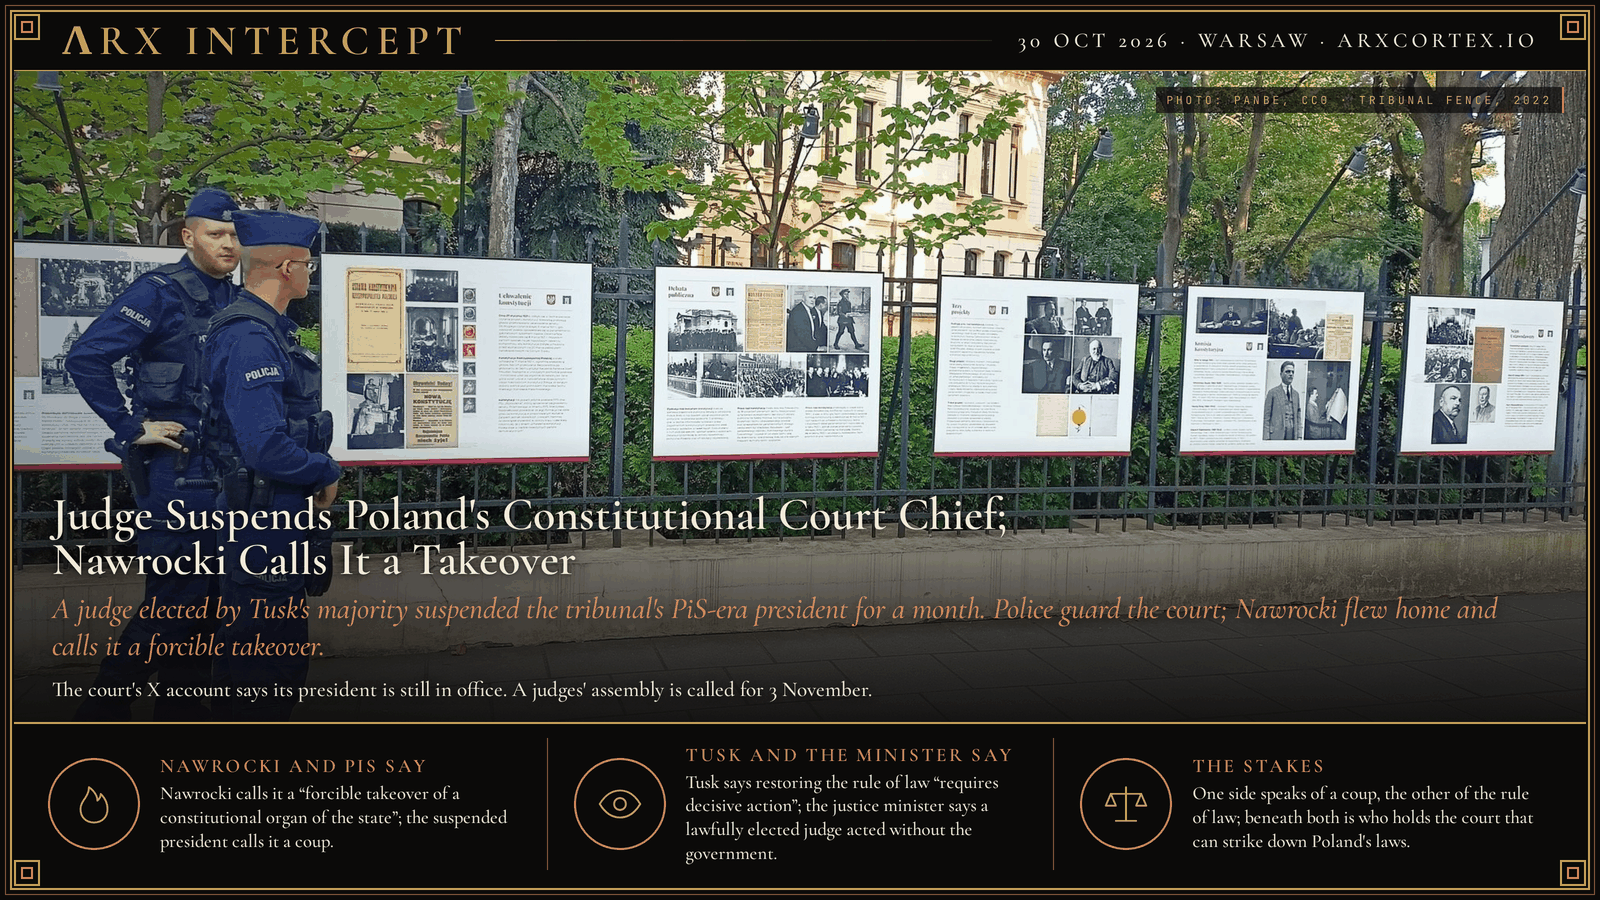
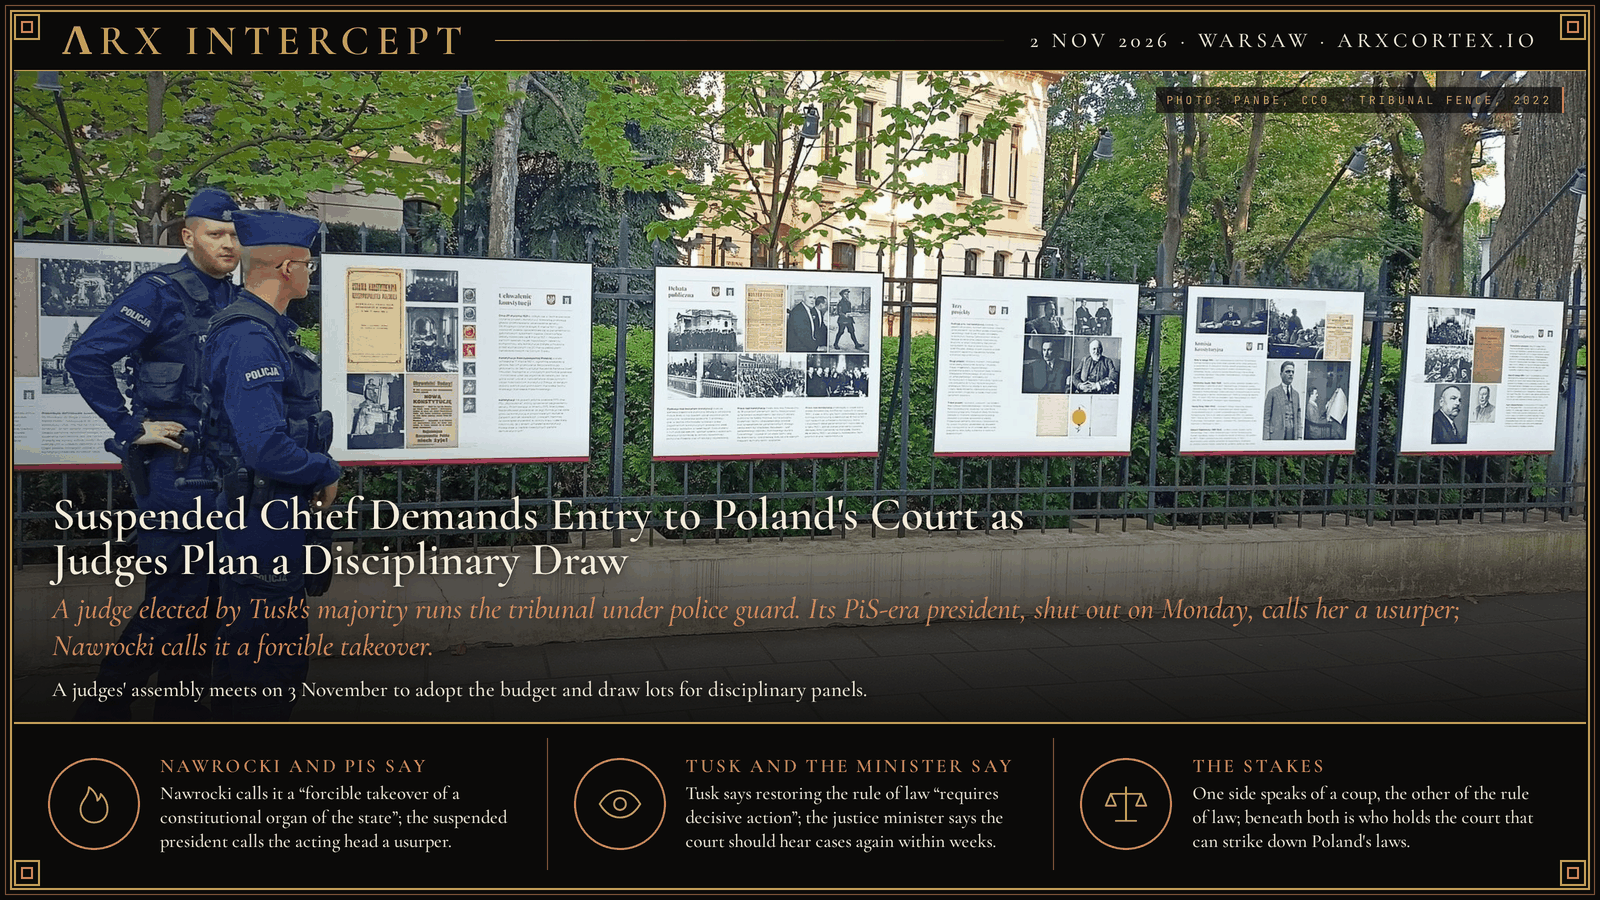
Dispatch: Suspended Chief Demands Entry to Poland's Court as Judges Plan a Disciplinary Draw

diff --git a/dispatches/2026-10-30-judge-suspends-polands-constitutional-court-chief/index.md b/dispatches/2026-10-30-judge-suspends-polands-constitutional-court-chief/index.md
@@ -4,9 +4,9 @@ desk: ΛRX Intercept
 author: Arx
 category: Politics
 story_type: contested
-title: "Judge Suspends Poland's Constitutional Court Chief; Nawrocki Calls It a Takeover"
-dek: "A judge elected by Tusk's majority suspended the tribunal's PiS-era president for a month. Police guard the court; Nawrocki flew home and calls it a forcible takeover."
-date: 2026-10-30
+title: "Suspended Chief Demands Entry to Poland's Court as Judges Plan a Disciplinary Draw"
+dek: "A judge elected by Tusk's majority runs the tribunal under police guard. Its PiS-era president, shut out on Monday, calls her a usurper; Nawrocki calls it a forcible takeover."
+date: 2026-11-02
 location: Warsaw, Poland
 coords: [52.2223, 21.0213]
 severity: 3
@@ -14,9 +14,9 @@ card: card.png
 art: art.jpg
 pair:
   left_label: "Nawrocki and PiS Say"
-  left: "Nawrocki calls it a \"forcible takeover of a constitutional organ of the state\"; Święczkowski calls it a coup and says the new judges are usurpers."
+  left: "Nawrocki calls it a \"forcible takeover of a constitutional organ of the state\"; Święczkowski calls Korwin-Piotrowska a usurper and her orders not binding."
   right_label: "Tusk and Żurek Say"
-  right: "Tusk says restoring the rule of law \"requires decisive action\"; Żurek says a lawfully elected judge acted without the government."
+  right: "Tusk says restoring the rule of law \"requires decisive action\" and Nawrocki need only recognise the judges the Sejm elected; Żurek says the court should hear cases again within weeks."
 reading:
   label: The Stakes
   text: "One side speaks of a coup, the other of the rule of law; beneath both is who holds the court that can strike down Poland's laws."
@@ -66,6 +66,34 @@ sources:
     outlet: Fakt
     url: https://www.fakt.pl/polityka/karol-nawrocki-reaguje-na-chaos-wokol-tk-wladyslaw-kosiniak-kamysz-u-prezydenta/2npc7jn
     role: origin
+  - title: "Tusk defends suspension of Poland's Constitutional Tribunal president as protesters gather again"
+    outlet: AP
+    url: https://apnews.com/article/poland-european-union-protests-police-tribunal-0a346b1633cef7360277500a1273773f
+    role: origin
+  - title: "Police deployed during stand-off over control of top Poland court"
+    outlet: BBC News
+    url: https://www.bbc.com/news/articles/crz9824d5e88o
+    role: origin
+  - title: "Polish president cuts short trip to Senegal amid court 'coup d'état' claims"
+    outlet: Euronews
+    url: https://www.euronews.com/2026/10/30/polish-president-turns-back-mid-flight-amid-coup-detat-allegations
+    role: origin
+  - title: "Kryzys w Trybunale Konstytucyjnym. Tusk wskazuje rozwiązanie, jutro kluczowe zgromadzenie sędziów"
+    outlet: Euronews (Polish)
+    url: https://pl.euronews.com/2026/11/02/kryzys-w-trybunale-konstytucyjnym-tusk-wskazuje-rozwiazanie-jutro-kluczowe-zgromadzenie-se
+    role: origin
+  - title: "Święczkowski znowu próbował wejść do Trybunału Konstytucyjnego. Bez powodzenia"
+    outlet: RMF24
+    url: https://www.rmf24.pl/fakty/polityka/news-swieczkowski-znowu-probowal-wejsc-do-trybunalu-konstytucyjne,nIdn,1024426
+    role: origin
+  - title: "Co dalej z TK? Korwin-Piotrowska w wywiadzie dla WP o jednym z możliwych rozwiązań"
+    outlet: Wirtualna Polska
+    url: https://wiadomosci.wp.pl/co-dalej-z-tk-korwin-piotrowska-w-wywiadze-dla-wp-o-jednym-z-mozliwych-rozwiazan-7346685445007808a
+    role: origin
+  - title: "Poland's constitutional court row deepens as judge seeks to discipline its chief"
+    outlet: Polskie Radio
+    url: https://www.polskieradio.pl/395/7784/artykul/3748307,poland%E2%80%99s-constitutional-court-row-deepens-as-judge-seeks-to-discipline-its-chief
+    role: origin
   - title: "Xero Flor w Polsce sp. z o.o. v. Poland, no. 4907/18, judgment of 7 May 2021"
     outlet: European Court of Human Rights
     url: https://hudoc.echr.coe.int/eng?i=001-210065
@@ -80,27 +108,27 @@ sources:
     role: image
 ---
 
-**ΛRX INTERCEPT** · Dispatch · 30 Oct 2026 · Warsaw
+**ΛRX INTERCEPT** · Dispatch · 2 Nov 2026 · Warsaw
 
-# Judge Suspends Poland's Constitutional Court Chief; Nawrocki Calls It a Takeover
+# Suspended Chief Demands Entry to Poland's Court as Judges Plan a Disciplinary Draw
 
-*A judge elected by Tusk's majority suspended the tribunal's PiS-era president for a month. Police guard the court; Nawrocki flew home and calls it a forcible takeover.*
+*A judge elected by Tusk's majority runs the tribunal under police guard. Its PiS-era president, shut out on Monday, calls her a usurper; Nawrocki calls it a forcible takeover.*
 
-On Friday evening, Judge Anna Korwin-Piotrowska suspended Constitutional Tribunal president Bogdan Święczkowski and his deputy for a month and took charge of the court. President Karol Nawrocki turned his plane back from Senegal and says the court was taken by force; Prime Minister Donald Tusk says the rule of law is being restored.
+Poland's suspended court chief stood outside the tribunal on Monday, demanding entry. A judge elected by Tusk's majority now runs it under police guard, and Nawrocki calls it a forcible takeover. At stake is a court that can strike down laws, a year before the election.
 
 ![ΛRX Intercept dispatch card (photo: PanBe, CC0): police officers outside the fence of the Constitutional Tribunal in Warsaw, September 2022](card.png)
 
-At about 6 p.m. on Friday, 30 October, the tribunal's website announced that Korwin-Piotrowska, as the judge with the longest judicial service, now heads the court, and that she had ordered a one-month break in duties for Święczkowski and Vice-President Bartłomiej Sochański, Rzeczpospolita reports. Her order, quoted by Prawo.pl, counts her service from the start of her judicial training on 1 September 1995. It gives as grounds that Święczkowski barred five judges elected by the current Sejm, including her, from hearing cases, and that by keeping them out he left the court unable to adopt its 2027 budget. Korwin-Piotrowska told TVP Info a disciplinary court must now rule on the suspensions. The same day, Justice Minister and Prosecutor General Waldemar Żurek filed five requests to lift the immunity of the two judges, four against Święczkowski and one against Sochański, with 50 volumes of case files.
+Bogdan Święczkowski arrived at the Constitutional Tribunal at about 1 p.m. on Monday, 2 November, and was not let in, RMF FM reports. "Nobody has removed me from the office of president of the Constitutional Tribunal, and no action by the usurper Anna Korwin-Piotrowska can change that," he told supporters outside. He said he would work in front of the building if he could not work inside, and there he signed a letter to the national police chief demanding that officers leave. The letter says police are on the court's grounds illegally, without the consent of the building's administrator. That morning, seven of the judges elected by the current Sejm came to work at the court; an eighth is on sick leave, RMF FM reports.
 
-The tribunal's X account says he remains president and that Korwin-Piotrowska cannot lead the court because Nawrocki never swore her in, AFP reports. Święczkowski calls the move a coup d'état, Politico reports. Police say they deployed after warnings of threats to judges and staff and did not enter the building; three people were detained after climbing the court's fence. Law and Justice (PiS) leader Jarosław Kaczyński joined several hundred protesters outside and says Poland risks becoming a "police state."
+The standoff began on Friday evening, 30 October. The tribunal's website announced that Korwin-Piotrowska, as the judge with the longest judicial service, now heads the court, and that she had ordered a one-month break in duties for Święczkowski and Vice-President Bartłomiej Sochański, Rzeczpospolita reports. Her order, quoted by Prawo.pl, gives as grounds that Święczkowski barred judges elected by the current Sejm, including her, from hearing cases, and that by keeping them out he left the court unable to adopt its 2027 budget. The same day, Justice Minister and Prosecutor General Waldemar Żurek asked for the immunity of both men to be lifted so they can be charged, BBC News reports. The tribunal's X account answered that Korwin-Piotrowska is not a judge of the court: "All persons participating in these actions are committing the crime of a coup d'état," the post said, Euronews reports. Riot police deployed at the court; police say they detained three people after protesters threw objects at officers and tried to break through the security fence, AP reports. Law and Justice (PiS) leader Jarosław Kaczyński joined the protesters outside and says Poland risks becoming a "police state."
 
-Nawrocki, flying to Senegal for the opening of the Youth Olympic Games, ordered his plane back to Warsaw, AFP reports. He met the First President of the Supreme Court, Zbigniew Kapiński, and went with him to the tribunal shortly before 1 a.m. Video posted by Judge Maciej Berek shows the president pushing through a group of judges at the door; Berek says he ran into Korwin-Piotrowska, Onet reports. Żurek says the footage shows the president "forcing his way in and attacking the judges." Before 5 a.m., Nawrocki's chief of staff, Paweł Szefernaker, read a statement outside the court describing a "forcible takeover of a constitutional organ of the state." It demanded that the police sent by the government leave, and it called emergency talks with parliamentary parties, citing a threat to internal security.
+President Karol Nawrocki, flying to Senegal for the opening of the Youth Olympic Games, ordered his plane back to Warsaw. "At a moment like this, the President must be in Poland," he wrote on X. He met the First President of the Supreme Court, Zbigniew Kapiński, and went with him to the tribunal shortly before 1 a.m. Video posted on X shows scuffles at the door between Nawrocki's group and a group of judges that included Korwin-Piotrowska, Euronews reports; Nawrocki says he helped Święczkowski get into the building, AP reports. Żurek says the footage shows the president "forcing his way in and attacking the judges." Before 5 a.m., Nawrocki's chief of staff, Paweł Szefernaker, read the president's statement outside the court: "Tonight, there has been a breach of the constitutional order of the Republic of Poland and a forcible takeover of a constitutional organ of the state." It demanded that the police sent by the government leave, and it called emergency talks with parliamentary parties, citing a threat to internal security.
 
-Leaders of PSL, Poland 2050, PiS, Razem and Confederation met Nawrocki on Saturday; Tusk's Civic Coalition and the Left stayed away, Fakt reports. Confederation's Sławomir Mentzen says the terms of all 15 judges should be ended and a new bench appointed. Razem's Adrian Zandberg says he told Nawrocki he had stopped acting as an arbiter and become a party to the dispute. In a televised address on Saturday, Tusk said he was "certain that the Constitutional Tribunal will function as it should," and that his duty was to keep it safe, Reuters reports. US ambassador Tom Rose urged all sides to avoid any step that could provoke violence.
+Leaders of PSL, Poland 2050, PiS, Razem and Confederation met Nawrocki on Saturday; Tusk's Civic Coalition and the Left stayed away, Fakt reports. Tusk said his government would press ahead with restoring the tribunal's independence, AP reports, as protesters gathered outside the court for a second night. On Monday he wrote that the dispute needs no change to the constitution: Nawrocki should recognise the judges the Sejm elected and let them take up their duties, Euronews reports. He accused Nawrocki of choosing a confrontation by force. Żurek says the tribunal should be hearing cases again within weeks. The president's office says Nawrocki's personal inviolability was breached at the door and that it will notify prosecutors, Wirtualna Polska reports; Korwin-Piotrowska says that distracts from what she calls the president's attempt to steer the judiciary.
 
-The fight dates to 2015. The outgoing Sejm elected judges in October that year; President Andrzej Duda refused to swear in three of them, and the new PiS majority elected three others to the same seats in December. In Xero Flor v. Poland (7 May 2021), the European Court of Human Rights held that a bench including one of those December judges was not a "tribunal established by law." On 18 December 2025, the EU Court of Justice ruled that the tribunal does not meet the EU standard of an independent tribunal established by law, citing those three appointments and the December 2016 appointment of its president. The tribunal under PiS-era judges ruled in 2021 that parts of the EU treaties conflict with Poland's constitution. Since Tusk took office in December 2023, Nawrocki, elected in 2025, has refused to swear in judges elected by the new majority, and Święczkowski, a former PiS-era deputy justice minister, has kept them from the bench. In September the Sejm elected Berek, a Tusk ally, to the court; Reuters reports critics said that undercut the government's stated aim of restoring checks and balances.
+The fight dates to 2015. The outgoing Sejm elected judges in October that year; President Andrzej Duda refused to swear in three of them, and the new PiS majority elected three others to the same seats in December. In Xero Flor v. Poland (7 May 2021), the European Court of Human Rights held that a bench including one of those December judges was not a "tribunal established by law." On 18 December 2025, the EU Court of Justice ruled that the tribunal does not meet the EU standard of an independent tribunal established by law, citing those three appointments and the December 2016 appointment of its president. The tribunal under PiS-era judges ruled in 2021 that parts of the EU treaties conflict with Poland's constitution. Tusk's government has cited the European rulings in refusing to publish the tribunal's judgments, BBC News reports. Nawrocki, elected in 2025, has refused to swear in judges elected by the new majority, and Święczkowski, a former PiS-era deputy justice minister, has kept them from the bench. In September the Sejm elected Maciej Berek, a former minister in Tusk's cabinet, to the court. Marcin Matczak, a law professor and critic of the PiS-era changes, says the suspension has no legal basis and "buries this body and the issue of the rule of law for two decades," BBC News reports.
 
-Korwin-Piotrowska has called a general assembly of the tribunal's judges for Tuesday, 3 November, to adopt the 2027 budget; it could also take up the immunity requests. The assembly needs two-thirds of the 15 judges present, Prawo.pl notes, so it cannot meet without some of the judges who back Święczkowski. He says he and seven other judges he calls lawful will not attend, and on Saturday he signed an order declaring 3–6 November days off for tribunal staff, Rzeczpospolita reports.
+Korwin-Piotrowska has called a general assembly of the tribunal's judges for 3:30 p.m. on Tuesday, 3 November, to adopt the 2027 budget. On Sunday she told TVN24 she would add a draw by lot to pick the judges who will hear disciplinary cases over her orders against Święczkowski and Sochański: three at first instance and five on appeal, Polskie Radio reports. The immunity requests will not be on Tuesday's agenda, she told Wirtualna Polska. The assembly needs two-thirds of the 15 judges, which is 10, Euronews reports. Asked whether Święczkowski, Sochański and Jarosław Wyrembak could be left out of the count, so that 8 of 12 would suffice, she called that "one of the possible solutions" and said the assembly will decide. Święczkowski says he and seven other judges he calls lawful will not attend, and he has signed an order declaring 3–6 November days off for tribunal staff, Rzeczpospolita reports.
 
 Nawrocki and PiS speak of a coup, Tusk and Żurek of the rule of law; beneath both is who holds the court that can strike down Poland's laws, a year before the next parliamentary election.
 
@@ -109,6 +137,13 @@ Nawrocki and PiS speak of a coup, Tusk and Żurek of the rule of law; beneath bo
 ## Sources
 
 **Original reporting**
+- [Tusk defends suspension of Poland's Constitutional Tribunal president as protesters gather again](https://apnews.com/article/poland-european-union-protests-police-tribunal-0a346b1633cef7360277500a1273773f) — AP
+- [Police deployed during stand-off over control of top Poland court](https://www.bbc.com/news/articles/crz9824d5e88o) — BBC News
+- [Święczkowski znowu próbował wejść do Trybunału Konstytucyjnego. Bez powodzenia](https://www.rmf24.pl/fakty/polityka/news-swieczkowski-znowu-probowal-wejsc-do-trybunalu-konstytucyjne,nIdn,1024426) — RMF24
+- [Kryzys w Trybunale Konstytucyjnym. Tusk wskazuje rozwiązanie, jutro kluczowe zgromadzenie sędziów](https://pl.euronews.com/2026/11/02/kryzys-w-trybunale-konstytucyjnym-tusk-wskazuje-rozwiazanie-jutro-kluczowe-zgromadzenie-se) — Euronews (Polish)
+- [Co dalej z TK? Korwin-Piotrowska w wywiadzie dla WP](https://wiadomosci.wp.pl/co-dalej-z-tk-korwin-piotrowska-w-wywiadze-dla-wp-o-jednym-z-mozliwych-rozwiazan-7346685445007808a) — Wirtualna Polska
+- [Poland's constitutional court row deepens as judge seeks to discipline its chief](https://www.polskieradio.pl/395/7784/artykul/3748307,poland%E2%80%99s-constitutional-court-row-deepens-as-judge-seeks-to-discipline-its-chief) — Polskie Radio
+- [Polish president cuts short trip to Senegal amid court 'coup d'état' claims](https://www.euronews.com/2026/10/30/polish-president-turns-back-mid-flight-amid-coup-detat-allegations) — Euronews
 - [Tusk-Nawrocki battle escalates as chief judge is ousted from Poland's top court](https://www.politico.eu/article/tusk-nawrocki-battle-escalates-chief-judge-ousted-from-polands-top-court/) — POLITICO Europe
 - [Poland political crisis: Constitutional court in chaos as Nawrocki accuses government of staging power grab](https://www.euronews.com/2026/10/31/poland-political-crisis-constitutional-court-in-chaos-as-nawrocki-accuses-government-of-st) — Euronews
 - [Polish president turns back from Senegal trip after top court chief suspended](https://theprint.in/world/polish-president-turns-back-from-senegal-trip-after-top-court-chief-suspended/3086718/) — ThePrint (Reuters)
